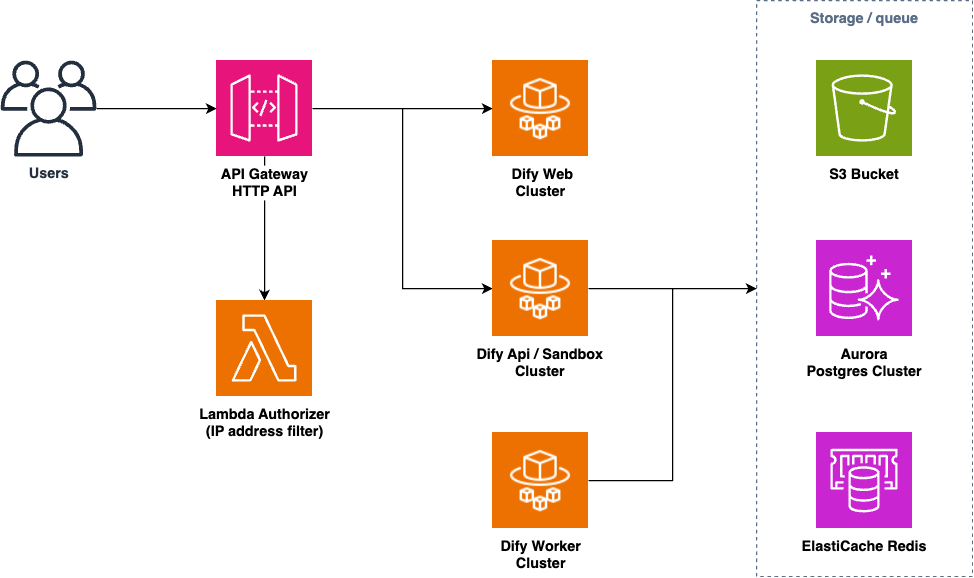
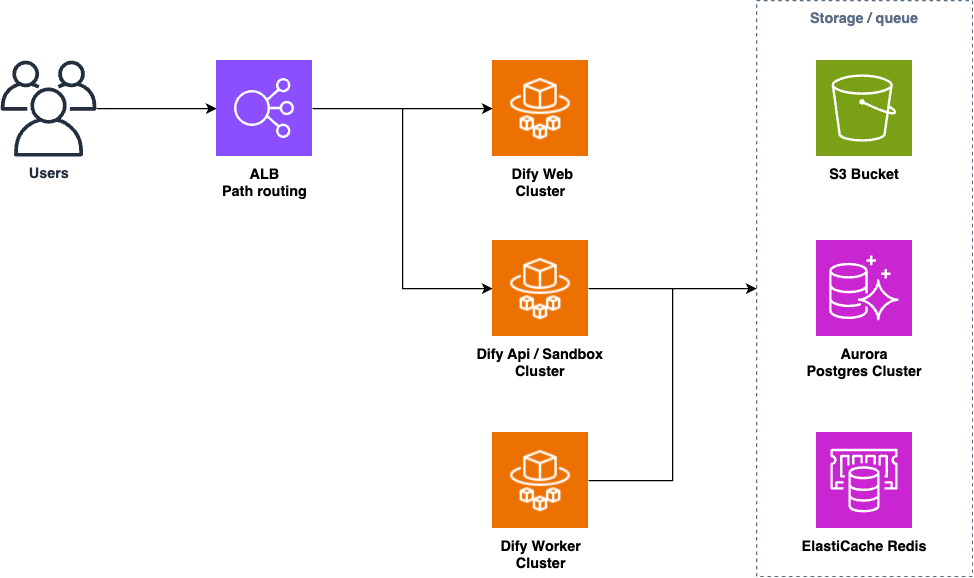
allow to configure TLS

Changed region(s): [[0.2156, 0.4983, 0.3388, 0.7785], [0.2156, 0.0934, 0.3388, 0.3426]]

diff --git a/lib/constructs/alb.ts b/lib/constructs/alb.ts
@@ -1,4 +1,5 @@
 import { Duration } from 'aws-cdk-lib';
+import { Certificate, CertificateValidation } from 'aws-cdk-lib/aws-certificatemanager';
 import { IVpc, Peer, Port } from 'aws-cdk-lib/aws-ec2';
 import { FargateService, IService } from 'aws-cdk-lib/aws-ecs';
 import {
@@ -9,11 +10,23 @@ import {
   ListenerAction,
   ListenerCondition,
 } from 'aws-cdk-lib/aws-elasticloadbalancingv2';
+import { ARecord, IHostedZone, RecordTarget } from 'aws-cdk-lib/aws-route53';
+import { LoadBalancerTarget } from 'aws-cdk-lib/aws-route53-targets';
 import { Construct } from 'constructs';
 
 export interface AlbProps {
   vpc: IVpc;
   allowedCidrs: string[];
+
+  /**
+   * @default 'dify'
+   */
+  subDomain?: string;
+
+  /**
+   * @default custom domain and TLS is not configured.
+   */
+  hostedZone?: IHostedZone;
 }
 
 export class Alb extends Construct {
@@ -26,26 +39,42 @@ export class Alb extends Construct {
   constructor(scope: Construct, id: string, props: AlbProps) {
     super(scope, id);
 
-    const { vpc } = props;
+    const { vpc, subDomain = 'dify' } = props;
+    const protocol = props.hostedZone ? ApplicationProtocol.HTTPS : ApplicationProtocol.HTTP;
+    const port = protocol == ApplicationProtocol.HTTPS ? 443 : 80;
+    const certificate = props.hostedZone
+      ? new Certificate(this, 'Certificate', {
+          domainName: `${subDomain}.${props.hostedZone.zoneName}`,
+          validation: CertificateValidation.fromDns(props.hostedZone),
+        })
+      : undefined;
 
     const alb = new ApplicationLoadBalancer(this, 'Resource', {
       vpc,
       vpcSubnets: vpc.selectSubnets({ subnets: vpc.publicSubnets }),
       internetFacing: true,
     });
+    this.url = `${protocol.toLowerCase()}://${alb.loadBalancerDnsName}`;
 
     const listener = alb.addListener('Listener', {
-      port: 80,
-      protocol: ApplicationProtocol.HTTP,
+      protocol,
       open: false,
       defaultAction: ListenerAction.fixedResponse(400),
+      certificates: certificate ? [certificate] : undefined,
     });
+    props.allowedCidrs.forEach((cidr) => alb.connections.allowFrom(Peer.ipv4(cidr), Port.tcp(port)));
 
-    props.allowedCidrs.forEach((cidr) => alb.connections.allowFrom(Peer.ipv4(cidr), Port.tcp(80)));
+    if (props.hostedZone) {
+      new ARecord(this, 'AliasRecord', {
+        zone: props.hostedZone,
+        recordName: subDomain,
+        target: RecordTarget.fromAlias(new LoadBalancerTarget(alb)),
+      });
+      this.url = `${protocol.toLowerCase()}://${subDomain}.${props.hostedZone.zoneName}`;
+    }
 
     this.vpc = vpc;
     this.listener = listener;
-    this.url = `http://${alb.loadBalancerDnsName}`;
   }
 
   public addEcsService(id: string, ecsService: FargateService, port: number, healthCheckPath: string, paths: string[]) {
@@ -67,7 +96,6 @@ export class Alb extends Construct {
     // https://docs.aws.amazon.com/elasticloadbalancing/latest/application/load-balancer-limits.html
     for (let i = 0; i < Math.floor((paths.length + 4) / 5); i++) {
       const slice = paths.slice(i * 5, (i + 1) * 5);
-      console.log(slice);
       this.listener.addTargetGroups(`${id}${i}`, {
         targetGroups: [group],
         conditions: [ListenerCondition.pathPatterns(slice)],

diff --git a/lib/dify-on-aws-stack.ts b/lib/dify-on-aws-stack.ts
@@ -18,6 +18,7 @@ import { WebService } from './constructs/dify-services/web';
 import { ApiService } from './constructs/dify-services/api';
 import { WorkerService } from './constructs/dify-services/worker';
 import { Alb } from './constructs/alb';
+import { PublicHostedZone } from 'aws-cdk-lib/aws-route53';
 
 interface DifyOnAwsStackProps extends cdk.StackProps {
   /**
@@ -39,6 +40,19 @@ interface DifyOnAwsStackProps extends cdk.StackProps {
    * @default create a new VPC
    */
   vpcId?: string;
+
+  /**
+   * The domain name you use for Dify's service URL.
+   * You must own a Route53 public hosted zone for the domain in your account.
+   * @default No custom domain is used.
+   */
+  domainName?: string;
+
+  /**
+   * The ID of Route53 hosted zone for the domain.
+   * @default No custom domain is used.
+   */
+  hostedZoneId?: string;
 
   /**
    * The image tag to deploy Dify container images (api=worker and web).
@@ -76,10 +90,24 @@ export class DifyOnAwsStack extends cdk.Stack {
                 instanceType: InstanceType.of(InstanceClass.T4G, InstanceSize.NANO),
                 machineImage: MachineImage.latestAmazonLinux2023({ cpuType: AmazonLinuxCpuType.ARM_64 }),
               }),
+              natGateways: 1,
             }
           : {}),
+        maxAzs: 2,
       });
     }
+
+    if ((props.hostedZoneId != null) !== (props.domainName != null)) {
+      throw new Error(`You have to set both hostedZoneId and domainName! Or leave both blank.`);
+    }
+
+    const hostedZone =
+      props.domainName && props.hostedZoneId
+        ? PublicHostedZone.fromHostedZoneAttributes(this, 'HostedZone', {
+            zoneName: props.domainName,
+            hostedZoneId: props.hostedZoneId,
+          })
+        : undefined;
 
     const cluster = new Cluster(this, 'Cluster', {
       vpc,
@@ -99,7 +127,7 @@ export class DifyOnAwsStack extends cdk.Stack {
       blockPublicAccess: BlockPublicAccess.BLOCK_ALL,
     });
 
-    const alb = new Alb(this, 'Alb', { vpc, allowedCidrs: props.allowedCidrs });
+    const alb = new Alb(this, 'Alb', { vpc, allowedCidrs: props.allowedCidrs, hostedZone });
 
     const api = new ApiService(this, 'ApiService', {
       cluster,

diff --git a/bin/cdk.ts b/bin/cdk.ts
@@ -5,7 +5,11 @@ import { DifyOnAwsStack } from '../lib/dify-on-aws-stack';
 
 const app = new cdk.App();
 new DifyOnAwsStack(app, 'DifyOnAwsStack', {
-  env: { region: 'ap-northeast-1' },
+  env: {
+    region: 'ap-northeast-1',
+    // You need to explicitly set AWS account ID when you look up an existing VPC.
+    // account: '123456789012'
+  },
   // Allow access from the Internet. Narrow this down if you want further security.
   allowedCidrs: ['0.0.0.0/0'],
   difyImageTag: '0.6.15',

diff --git a/README.md b/README.md
@@ -11,8 +11,8 @@ Key Features:
 * Fully managed services requiring less maintenance effort
     * Aurora servereless v2, ElastiCache, ECS Fargate, etc.
 * Cost effective architectural decisions
-    * allow to use NAT instances instead of NAT Gateway, use API Gateway instead of ELB, and Fargate spot capacity by default
-* Natively integrate with Bedrock using IAM role
+    * allow to use NAT instances instead of NAT Gateway, and Fargate spot capacity by default
+* Natively integrate with Bedrock using IAM roles
 
 本リポジトリの使い方について、日本語で書かれた記事があります！[AWS CDKでDifyを一撃構築](https://note.com/yukkie1114/n/n0d9c5551569f)
 
